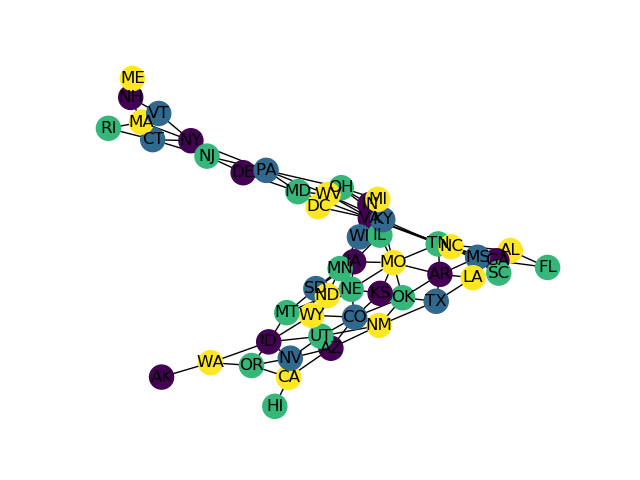
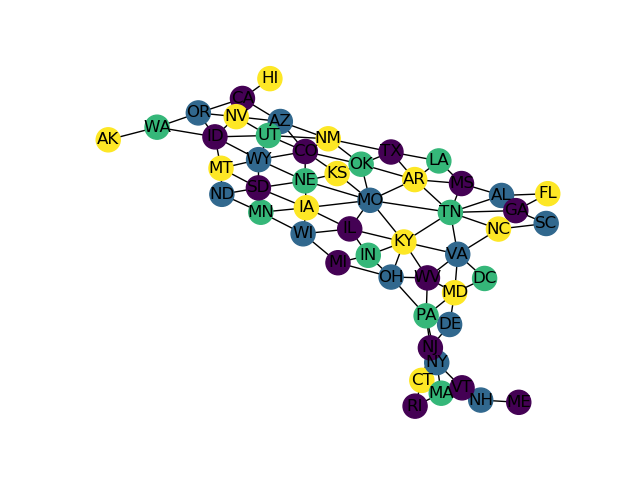
type

Changed region(s): [[0.125, 0.125, 0.875, 0.875]]

diff --git a/assignment5/src/Map.py b/assignment5/src/Map.py
@@ -1,27 +1,66 @@
+import networkx as nx
+import matplotlib.pyplot as plt
+
 class Border:
-    def __init__(self,in1,in2):
-        self.index1=in1
-        self.index2=in2
+    def __init__(self, in1, in2):
+        self.index1 = in1
+        self.index2 = in2
+
 
 class Map:
-    def __init__(self,file):
-        self.states=[]
-        self.borders=[]
-        self.graph=[]
-        self.graphnum=[]
+    def __init__(self, file):
+        self.states = []
+        self.borders = []
+        self.graph = []
+        self.graphnum = []
+        self.visited = []
+        self.datalist = []
+        self.colors=[]
         with open(file, 'r') as f:
             for line in f:
                 p = list(line.split(','))
-                fin=p.pop()
-                fin=fin.split('\n')
+                fin = p.pop()
+                fin = fin.split('\n')
                 p.append(fin[0])
                 self.states.append(p[0])
+                self.visited.append(0)
+                self.datalist.append([0, 1, 2, 3])
+                self.colors.append(-1)
                 self.graph.append(p)
         for i in range(len(self.graph)):
-            q=[]
-            for j in range(1,len(self.graph[i])):
+            q = []
+            for j in range(1, len(self.graph[i])):
                 for k in range(len(self.states)):
-                    if self.states[k]==self.graph[i][j]:
-                        self.borders.append(Border(i,k))
+                    if self.states[k] == self.graph[i][j]:
+                        self.borders.append(Border(i, k))
                         q.append(k)
             self.graphnum.append(q)
+
+    def picprint(self):
+        labels = {}
+        for i in range(len(self.states)):
+            labels[i + 1] = self.states[i]
+
+        G = nx.Graph()
+        for i in range(len(self.borders)):
+            G.add_edge(int(self.borders[i].index1) + 1, int(self.borders[i].index2) + 1)
+        pos = nx.spring_layout(G)
+        colors = []
+        nodesp = list(G.node())
+        for i in range(len(nodesp)):
+            ppp = self.colors[nodesp[i] - 1]
+            colors.append(ppp)
+        nx.draw_networkx_nodes(G, pos, node_color=colors)
+        nx.draw_networkx_edges(G, pos)
+        nx.draw_networkx_labels(G, pos, labels)
+        plt.axis('off')
+        plt.savefig("us_states.png")
+        plt.show()
+
+    def isgoal(self):
+        flag = 1
+        for i in range(len(self.borders)):
+            if self.colors[self.borders[i].index1] == self.colors[self.borders[i].index2]:
+                flag = 0
+        return flag
+

diff --git a/assignment5/src/main.py b/assignment5/src/main.py
@@ -1,6 +1,10 @@
 from Map import Map
+from Back_tracking import Back_tracking
 
-map = Map('us_states_51_ij.txt')
+print('Which map do you want to search?(10/51):')
+num_state=int(input())
+map = Map('us_states_'+str(num_state)+'_ij.txt')
 
-for i in range(len(map.states)):
-    print(map.states[i])
+map.picprint()
+
+Back_tracking(map,0)

diff --git a/assignment5/src/Back_tracking.py b/assignment5/src/Back_tracking.py
@@ -1,0 +1,9 @@
+def Back_tracking(map,step):
+    if step==len(map.states):
+        if map.isgoal() == 1:
+            map.picprint()
+            exit()
+        else:
+            return 0
+    
+    return 0
